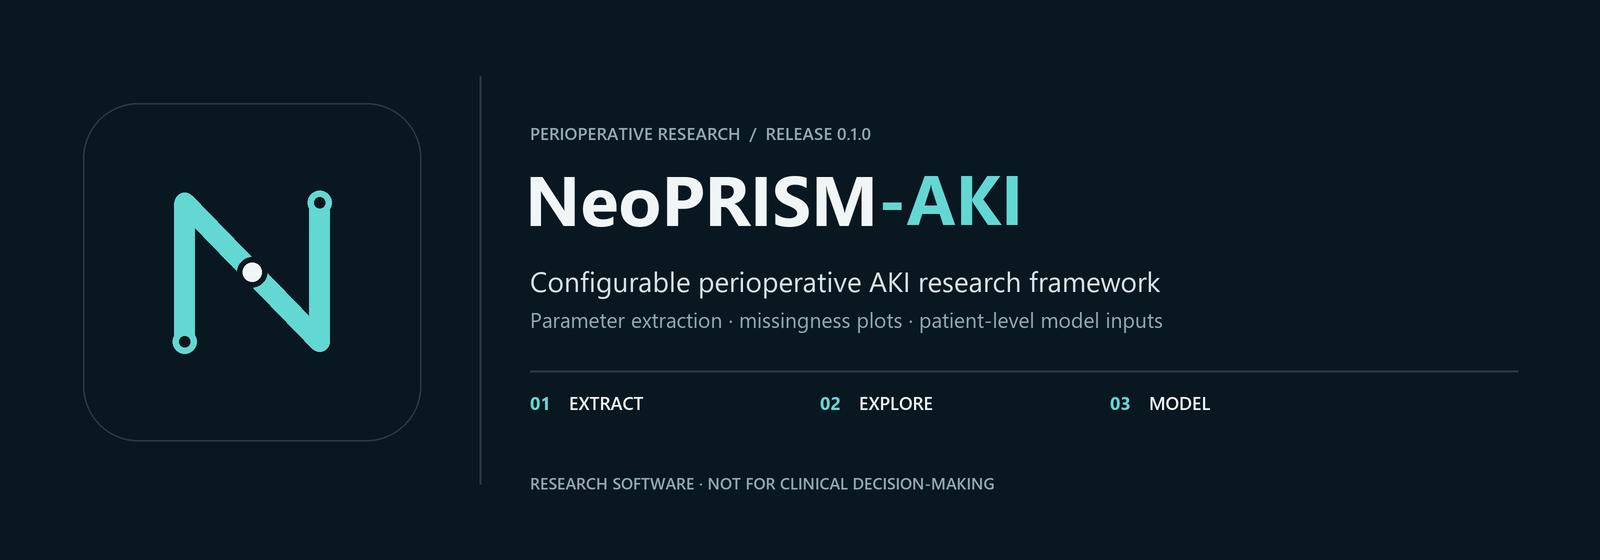
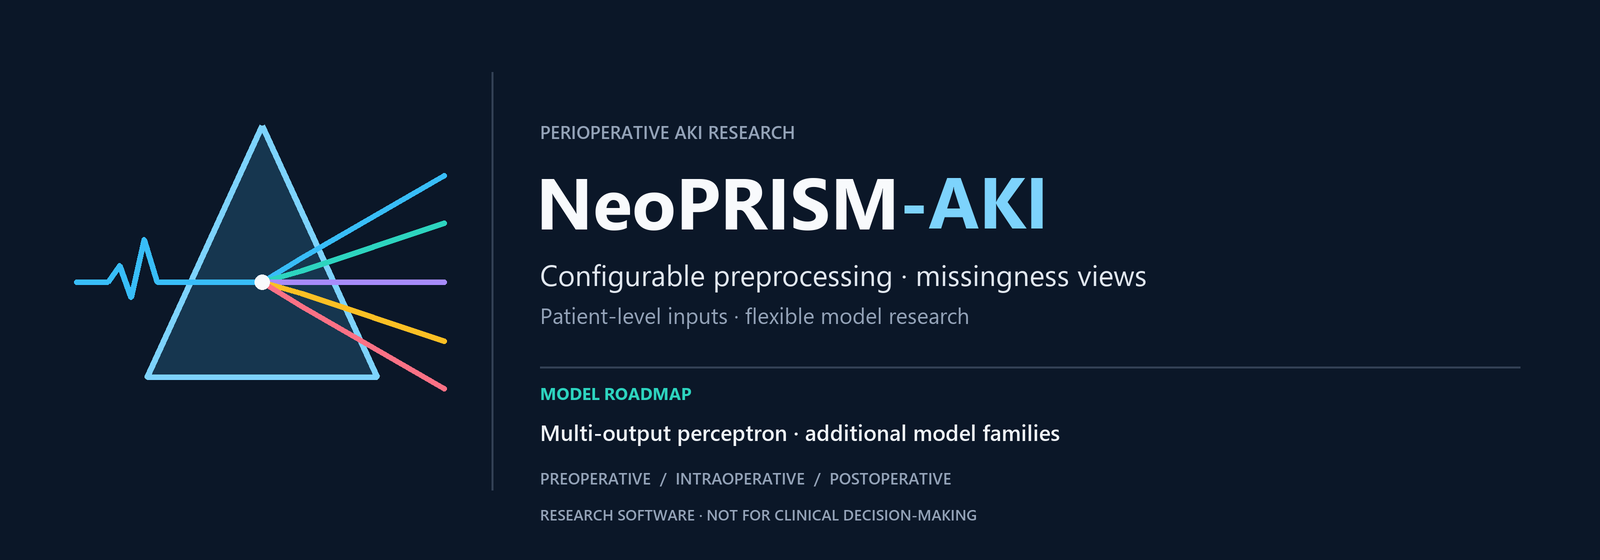
docs: align prism branding with model roadmap

diff --git a/README.md b/README.md
@@ -2,9 +2,9 @@
 
 [![Latest release](https://img.shields.io/github/v/release/b64Lorenzo/pattern-recognition-course)](https://github.com/b64Lorenzo/pattern-recognition-course/releases/latest)
 
-![NeoPRISM-AKI — perioperative research framework](assets/branding/banner.png)
+![NeoPRISM-AKI prism banner — preprocessing, missingness analysis, and model roadmap](assets/branding/banner.png)
 
-NeoPRISM-AKI is a research-only Python framework for retrospective perioperative data. It preserves configurable parameter extraction, phase-aware missingness views, patient-level model inputs, and a **binary Rosenblatt perceptron** baseline.
+NeoPRISM-AKI is a research-only Python framework for retrospective perioperative data. It currently provides configurable parameter extraction, phase-aware missingness views, patient-level model inputs, and a **binary Rosenblatt perceptron** baseline. Planned model extensions include a multi-output perceptron and additional model families.
 
 **The project does not infer clinical AKI outcomes from missing measurements.** A clinically adjudicated label CSV is required for training. Unknown labels remain unknown and are excluded from training, never converted to No AKI. The model produces **hard class labels and uncalibrated linear scores**, not AKI risk probabilities. It is not a clinical decision-support system.
 

diff --git a/assets/branding/README.md b/assets/branding/README.md
@@ -1,9 +1,9 @@
 # NeoPRISM-AKI identity assets
 
-These original assets take broad inspiration from the parent NeoPRISM project's restrained dark palette and technical research tone. They do not reuse its logo or banner composition.
+These project-specific assets adapt the original NeoPRISM prism concept and dark technical palette for the AKI research scope. The prism/signal mark, typography, copy, and layout are redrawn here; model extensions are identified as planned rather than shipped capabilities.
 
-- `mark.svg` — scalable square mark; the connected N and three nodes suggest a staged workflow.
-- `banner.svg` — README/project banner.
+- `mark.svg` — scalable square mark; a data signal passes through a triangular prism and separates into model-output paths.
+- `banner.svg` — README/project banner; highlights the planned multi-output perceptron and extensible model families, with no release/version text.
 - `workflow.svg` — current preprocessing-to-model workflow; the label safeguard is intentional.
 - `mark.png`, `banner.png`, `workflow.png` — raster exports for documents and compatible platforms.
 - `social-preview.png` — 1280 × 640 repository social-preview export.
